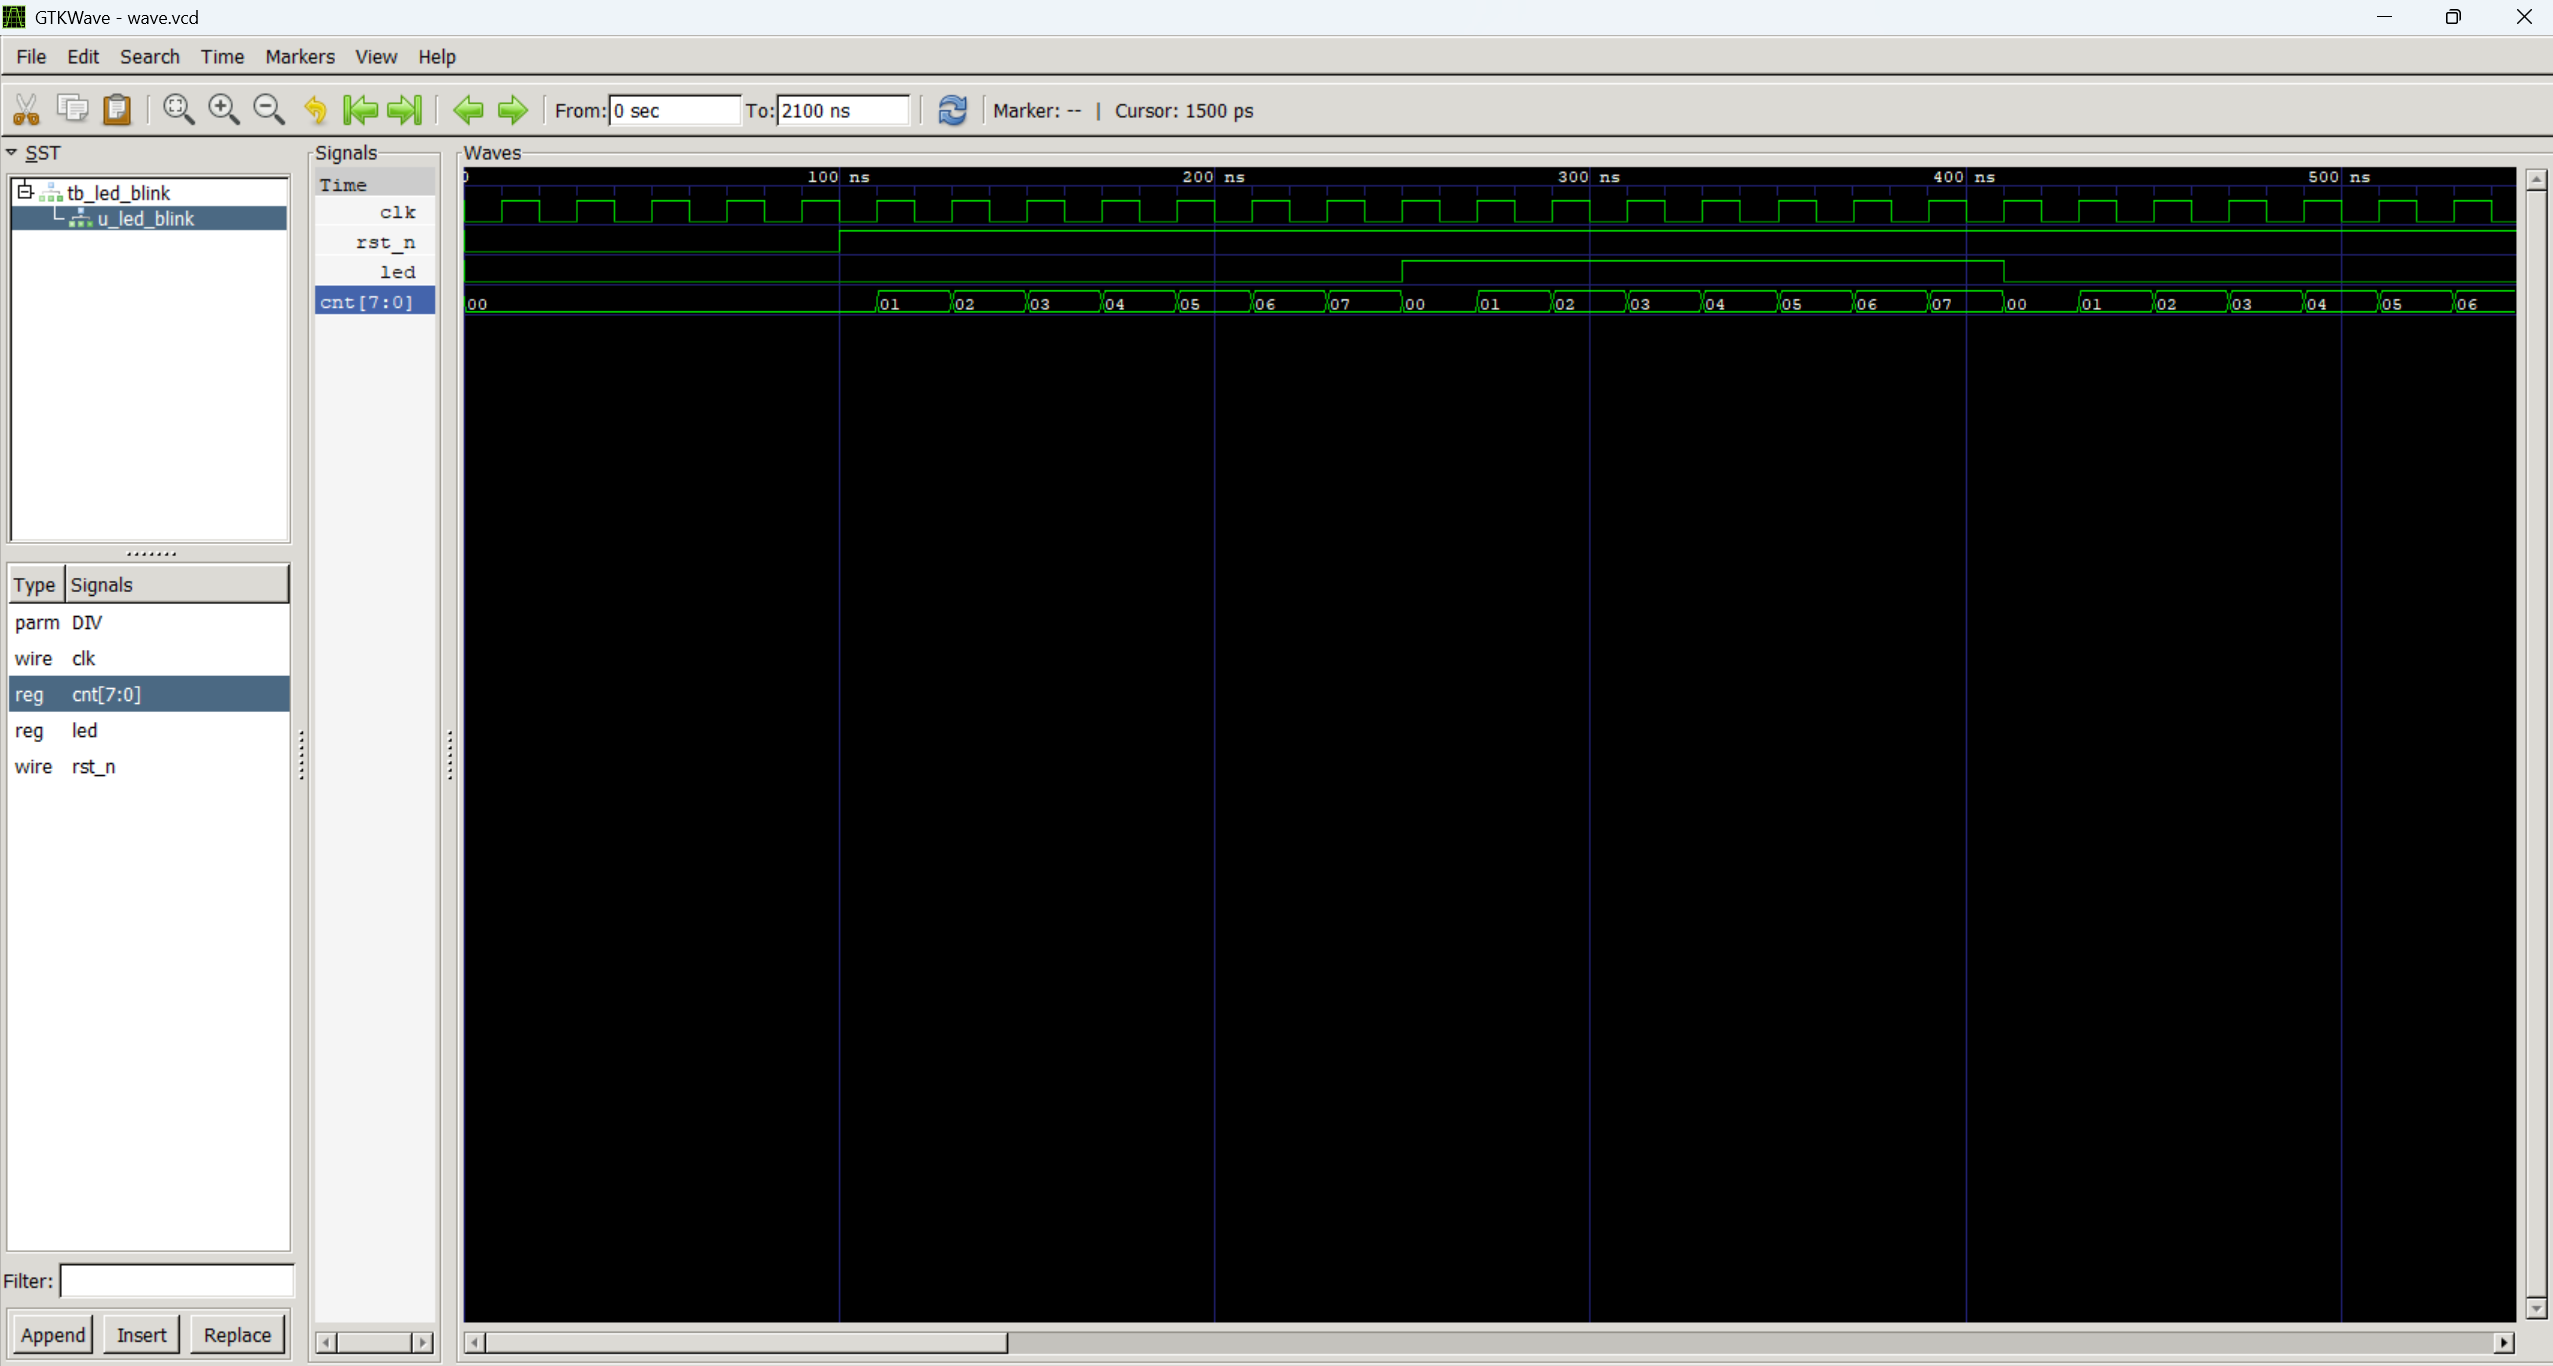
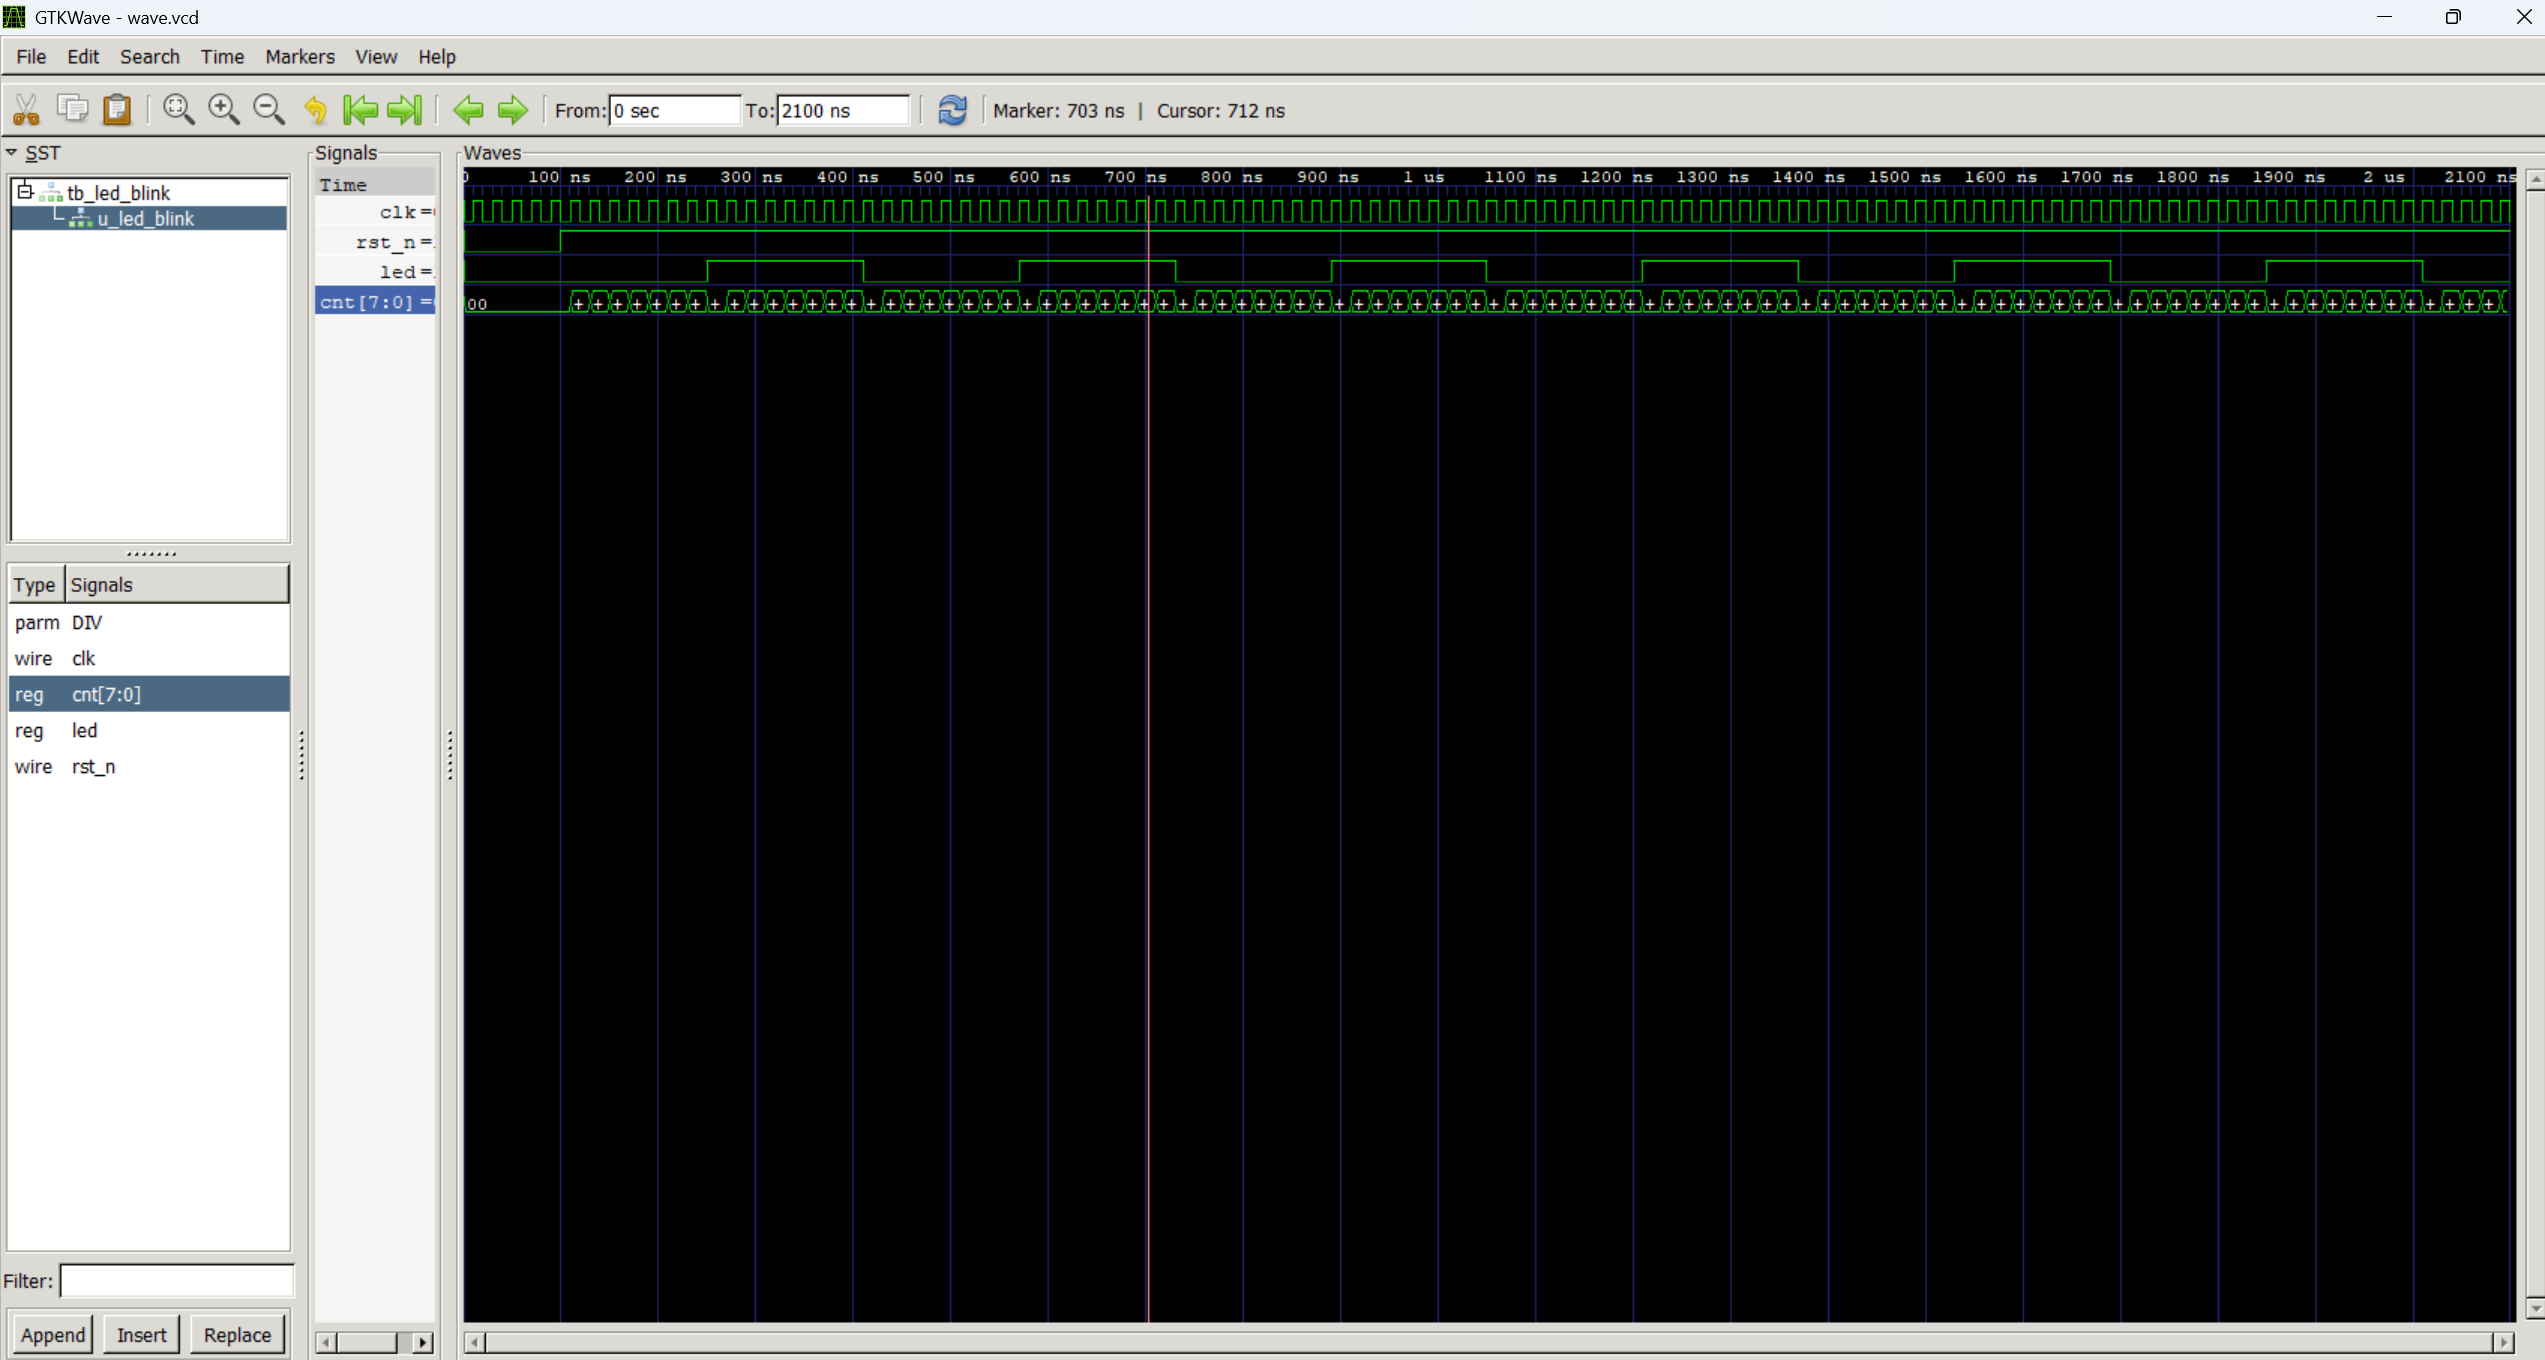
Day2: 换用全周期波形截图 + 修正 led 周期描述 + 新增 VCD 自动校验脚本

Changed region(s): [[0.0, 0.0309, 1.0, 1.0], [0.0, 0.3706, 0.1242, 0.5868]]

diff --git a/projects/01_led_blink/tools/vcd_period_check.py b/projects/01_led_blink/tools/vcd_period_check.py
@@ -1,0 +1,73 @@
+"""
+vcd_period_check.py —— 用 Python 解析 VCD 波形，自动核对信号翻转间隔
+
+用途：仿真跑完后，不靠肉眼读 GTKWave 截图，直接用脚本把"真实周期"算出来。
+     这是"Python 辅助硬件验证"的第一个小例子：仿真工具负责产生数据，Python 负责断言。
+
+用法：
+    python vcd_period_check.py            # 默认读本目录上两级的 wave.vcd
+    python vcd_period_check.py 别的.vcd
+
+运行前提：先跑过 run.bat，生成 wave.vcd
+"""
+
+import sys
+import os
+
+EXPECTED_NS = 160.0          # DIV=8 × 时钟周期 20ns = 160ns 翻转一次
+SIGNAL_ID = "!"              # wave.vcd 里 led 信号的 VCD 标识符
+TIME_UNIT_PS = 1000          # 1ns = 1000ps（本工程 timescale 1ns/1ps）
+
+
+def parse_edges(path, sig_id):
+    """从 VCD 中提取某个 1 bit 信号的所有 (时刻ps, 值) 变化点"""
+    t = 0
+    edges = []
+    with open(path, encoding="utf-8", errors="ignore") as f:
+        for line in f:
+            line = line.strip()
+            if line.startswith("#"):                 # 时间戳行：#2130000
+                t = int(line[1:])
+            elif len(line) == 2 and line[1] == sig_id and line[0] in "01":
+                edges.append((t, line[0]))           # 值变化行：1! / 0!
+    return edges
+
+
+def main():
+    here = os.path.dirname(os.path.abspath(__file__))
+    vcd = sys.argv[1] if len(sys.argv) > 1 else os.path.join(here, "..", "wave.vcd")
+    vcd = os.path.normpath(vcd)
+
+    if not os.path.exists(vcd):
+        print(f"[X] 找不到波形文件: {vcd}")
+        print("    先双击项目根目录的 run.bat 生成 wave.vcd")
+        return 1
+
+    edges = parse_edges(vcd, SIGNAL_ID)
+    if len(edges) < 3:
+        print(f"[X] 只找到 {len(edges)} 个变化点，波形可能没抓到或信号名不对")
+        return 1
+
+    # 跳过复位期间（首个边沿也在其中），只看稳定翻转阶段
+    times = [t for t, _ in edges if t > 100_000]
+    gaps_ns = [(times[i + 1] - times[i]) / TIME_UNIT_PS for i in range(len(times) - 1)]
+
+    print("=" * 46)
+    print(f"波形文件: {vcd}")
+    print(f"led 电平变化次数: {len(edges)}")
+    print("-" * 46)
+    print("各次翻转时刻 (ns):", [f"{t/1000:.0f}" for t in times])
+    print("相邻翻转间隔 (ns):", [f"{g:.0f}" for g in gaps_ns])
+    print("-" * 46)
+
+    ok = all(abs(g - EXPECTED_NS) < 0.001 for g in gaps_ns)
+    if ok:
+        print(f"[PASS] 所有间隔均为 {EXPECTED_NS:.0f} ns，与 DIV=8 × 20ns 理论值一致")
+        print(f"       → led 完整周期 = {EXPECTED_NS*2:.0f} ns")
+        return 0
+    print(f"[FAIL] 期望 {EXPECTED_NS:.0f} ns，实测 {gaps_ns}")
+    return 1
+
+
+if __name__ == "__main__":
+    sys.exit(main())

diff --git a/notes/02_iverilog仿真流程.md b/notes/02_iverilog仿真流程.md
@@ -79,8 +79,41 @@ endmodule
 
 ![GTKWave 波形：clk / rst_n / led / cnt](img/03_gtkwave_led_blink.png)
 
-图中可以看到：`clk` 每 20ns 一个周期；`cnt[7:0]` 在 0→7 之间循环（`led` 每数满 8 个数翻转一次）；
-`led` 高电平持续约 320ns —— 与 `DIV=8 × 20ns × 2` 的计算完全吻合。
+图中可以看到：`clk` 每 20ns 一个周期；`cnt[7:0]` 在 0→7 之间循环（每数满 8 个数 `led` 翻转一次）；
+**`led` 的高电平、低电平各持续 160ns，一个完整周期 = 320ns**。
+
+> 注意区分两个数字：**翻转间隔 160ns**（高电平的宽度），**完整周期 320ns**（高 + 低）。
+> 这两个数在图上都是一个"台阶宽"的量级，肉眼容易搞混 —— 所以下面用脚本算，不靠读图。
+
+### 实测数据（脚本解析 wave.vcd，比肉眼读图可靠）
+
+| led 变化沿 | 时刻 |
+| --- | --- |
+| 0 → 1（复位释放后第一次翻转）| 250 ns |
+| 1 → 0 | 410 ns |
+| 0 → 1 | 570 ns |
+| 1 → 0 | 730 ns |
+| 1 → 0（最后一次）| 2010 ns |
+
+相邻翻转间隔恒定为 **160 ns**，共 11 个间隔无一例外 → 与 `DIV = 8 × 20ns` 完全吻合。
+
+**怎么自己算出来的**：`tools/vcd_period_check.py`（用 Python 解析 VCD，代替肉眼读波形）
+
+```bat
+cd /d D:\fpga-portfolio\projects\01_led_blink
+python tools\vcd_period_check.py
+```
+
+```
+[PASS] 所有间隔均为 160 ns，与 DIV=8 × 20ns 理论值一致
+       → led 完整周期 = 320 ns
+```
+
+这就是"Python 辅助硬件验证"的最小例子：**仿真工具负责产生数据，Python 负责断言对错**。
+以后项目里做 CRC、串口波特率、滤波器响应，都能用同样的套路自动核对，不用每次盯着波形数格子。
+
+> 想在 GTKWave 里精确测某个边沿：先在左侧 SST 里**选中 `led` 信号**，然后点工具栏的 `<` / `>`
+> （Find Prev / Next Edge），游标会自动跳到跳变沿上，比鼠标目测点准得多。
 
 ## 五、常见报错对照表
 

diff --git a/projects/01_led_blink/README.md b/projects/01_led_blink/README.md
@@ -23,6 +23,23 @@ D:\iverilog\bin\vvp.exe sim.vvp
 start "" "D:\iverilog\gtkwave\bin\gtkwave.exe" wave.vcd
 ```
 
+## 自动校验（Python）
+
+不盯波形数格子，直接用脚本核对周期：
+
+```bat
+cd /d D:\fpga-portfolio\projects\01_led_blink
+python tools\vcd_period_check.py
+```
+
+`tools/vcd_period_check.py` 会解析 `wave.vcd`，把 led 每次翻转的时刻与间隔打出来，
+并断言间隔是否等于理论值 160ns：
+
+```
+[PASS] 所有间隔均为 160 ns，与 DIV=8 × 20ns 理论值一致
+       → led 完整周期 = 320 ns
+```
+
 ## 预期波形
 
 1. `rst_n` 前 100ns 为低，`cnt` 与 `led` 保持 0；
